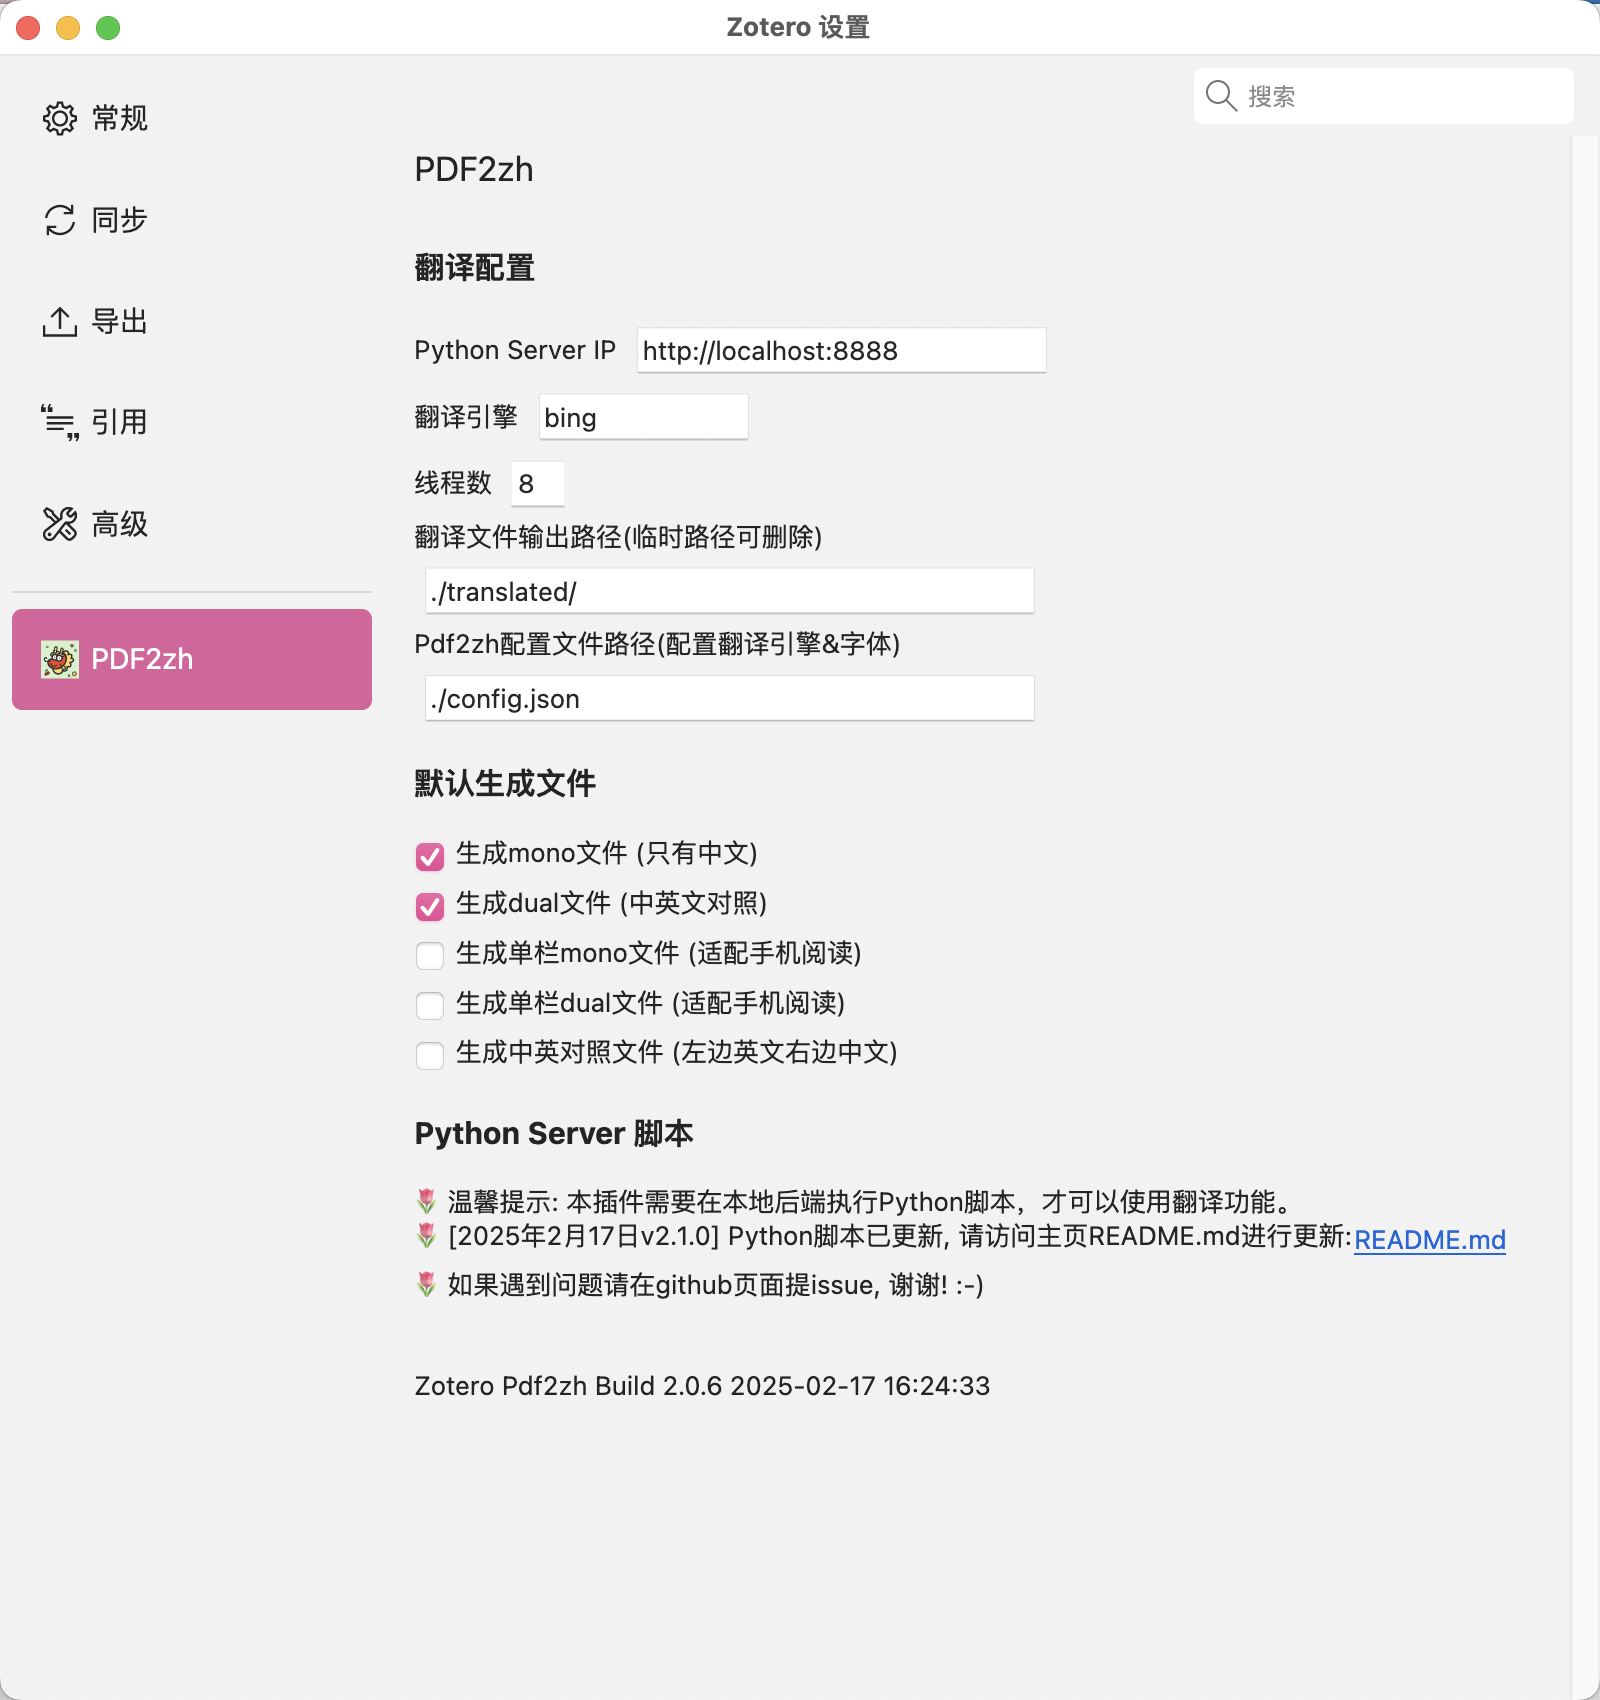
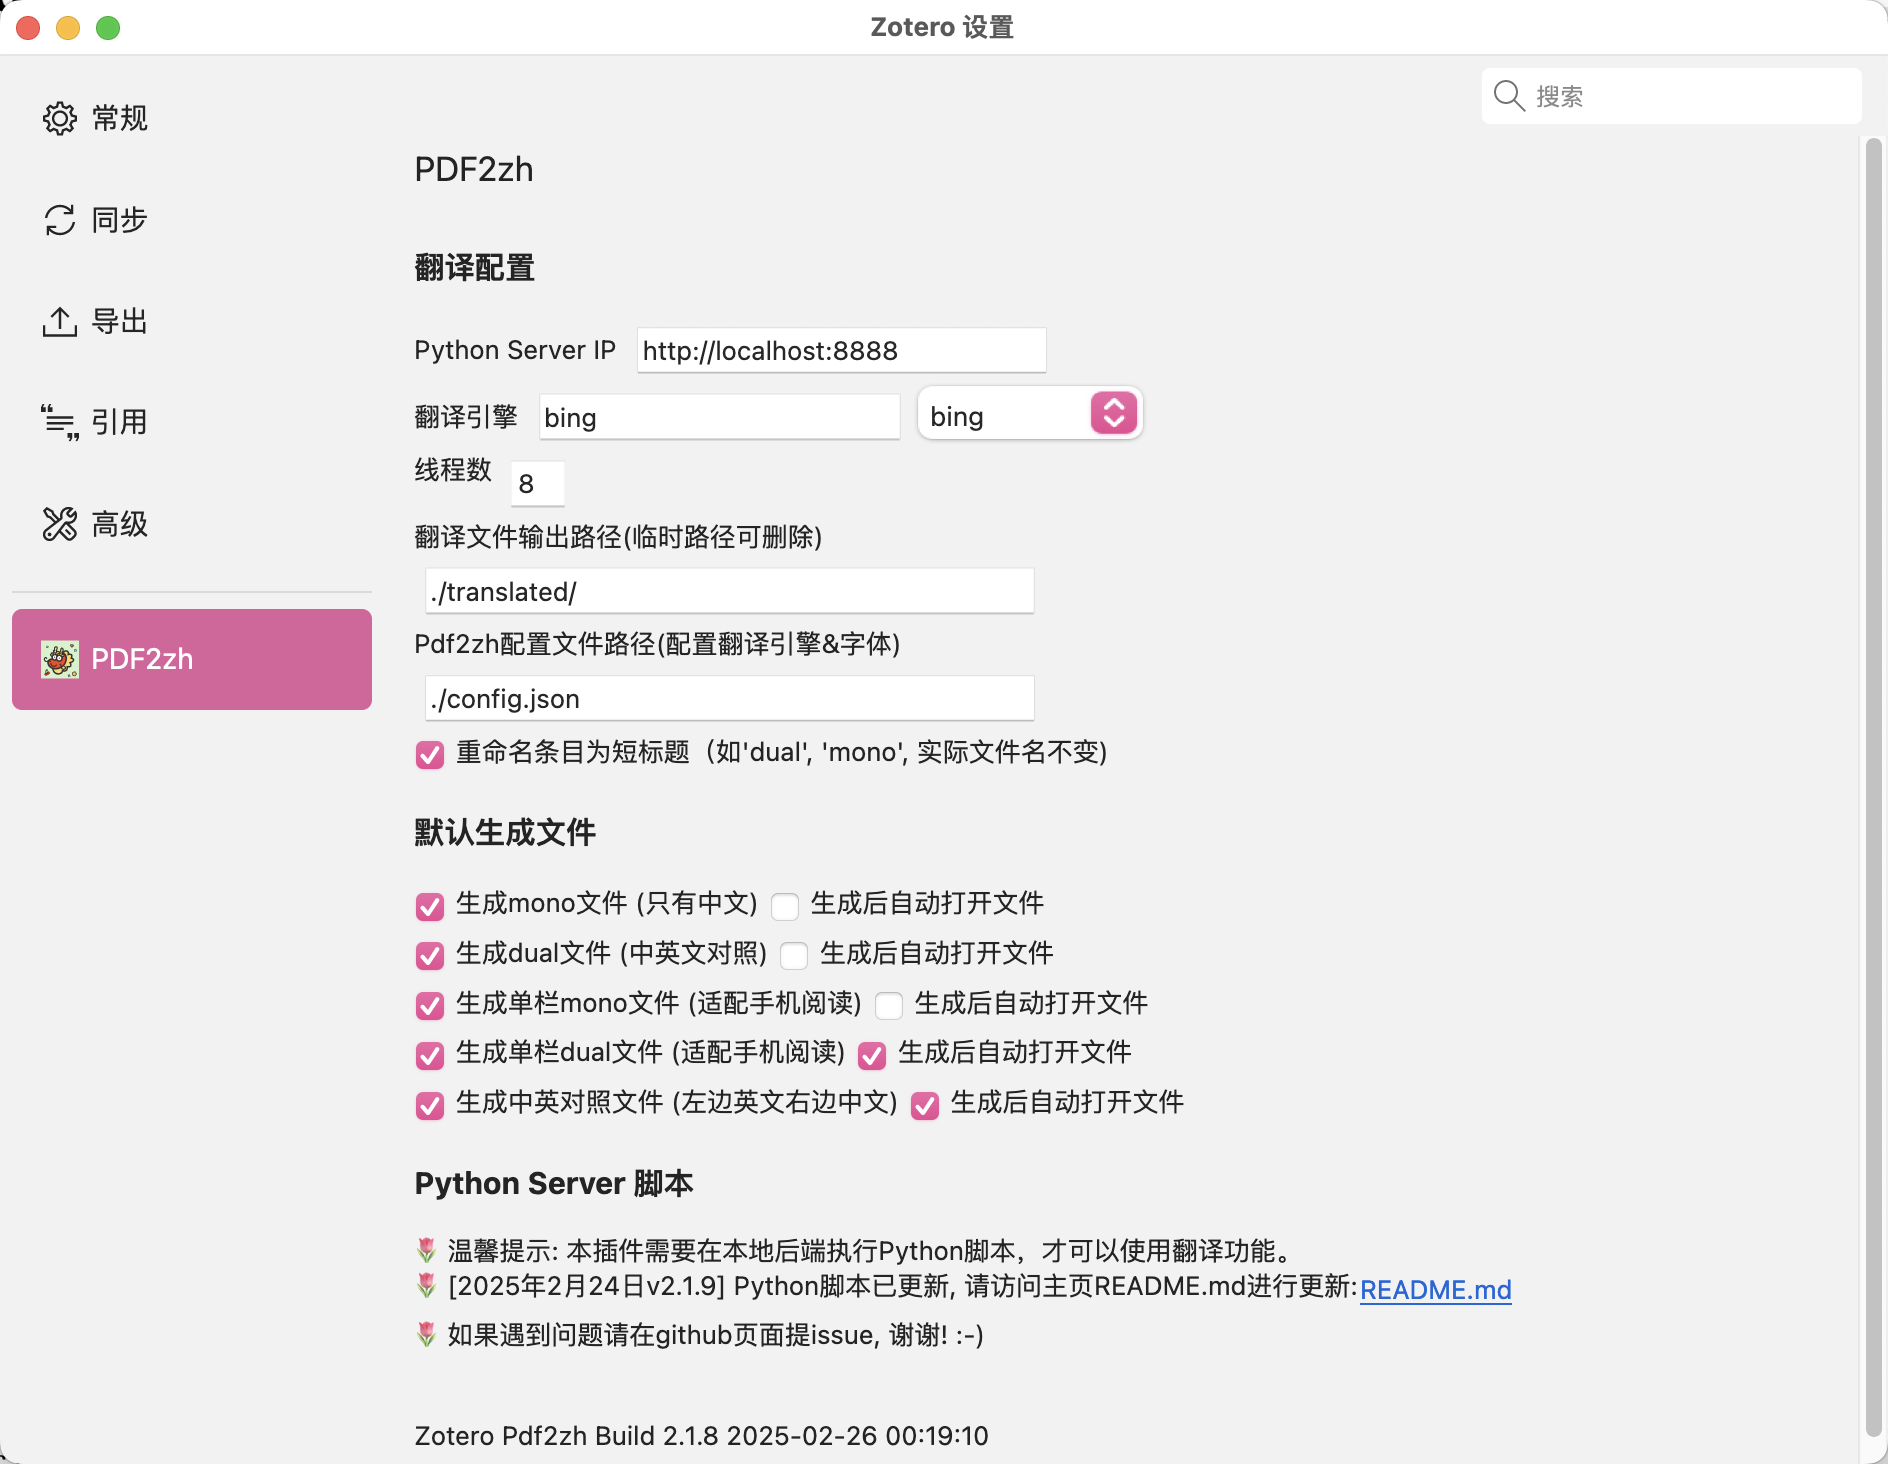
update

diff --git a/src/modules/examples.ts b/src/modules/examples.ts
@@ -141,6 +141,9 @@ export class HelperExampleFactory {
         fileName: string,
         serverUrl: string,
         item: Zotero.Item,
+        title: string = "",
+        rename: string = "false",
+        open: string = "false",
     ) {
         const response = await axios.get(
             serverUrl + "/translatedFile/" + fileName,
@@ -151,7 +154,13 @@ export class HelperExampleFactory {
         const uint8Array = new Uint8Array(response.data);
         const tempDir = PathUtils.join(PathUtils.tempDir, fileName);
         IOUtils.write(tempDir, uint8Array);
-        await HelperExampleFactory.addAttachmentToItem(item, tempDir);
+        await HelperExampleFactory.addAttachmentToItem(
+            item,
+            tempDir,
+            title,
+            rename,
+            open,
+        );
         IOUtils.remove(tempDir);
     }
 
@@ -184,6 +193,13 @@ export class HelperExampleFactory {
         const mono_cut = getPref("mono-cut")?.toString();
         const dual_cut = getPref("dual-cut")?.toString();
         const compare = getPref("compare")?.toString();
+        const rename = getPref("rename")?.toString();
+        const mono_open = getPref("mono-open")?.toString();
+        const dual_open = getPref("dual-open")?.toString();
+        const mono_cut_open = getPref("mono-cut-open")?.toString();
+        const dual_cut_open = getPref("dual-cut-open")?.toString();
+        const compare_open = getPref("compare-open")?.toString();
+
         let outputPath = getPref("outputPath")?.toString();
         if (!outputPath) {
             outputPath = "";
@@ -263,6 +279,9 @@ export class HelperExampleFactory {
                                 fileName1,
                                 serverUrl,
                                 item,
+                                "mono",
+                                rename,
+                                mono_open,
                             );
                         }
                         if (dual === "true") {
@@ -270,6 +289,9 @@ export class HelperExampleFactory {
                                 fileName2,
                                 serverUrl,
                                 item,
+                                "dual",
+                                rename,
+                                dual_open,
                             );
                         }
                         if (mono_cut === "true") {
@@ -277,6 +299,9 @@ export class HelperExampleFactory {
                                 fileName3,
                                 serverUrl,
                                 item,
+                                "mono-cut",
+                                rename,
+                                mono_cut_open,
                             );
                         }
                         if (dual_cut === "true") {
@@ -284,6 +309,9 @@ export class HelperExampleFactory {
                                 fileName4,
                                 serverUrl,
                                 item,
+                                "dual-cut",
+                                rename,
+                                dual_cut_open,
                             );
                         }
                         if (compare === "true") {
@@ -291,6 +319,9 @@ export class HelperExampleFactory {
                                 fileName5,
                                 serverUrl,
                                 item,
+                                "dual-compare",
+                                rename,
+                                compare_open,
                             );
                         }
                     }
@@ -335,6 +366,12 @@ export class HelperExampleFactory {
         if (!configPath) {
             configPath = "";
         }
+        const rename = getPref("rename")?.toString();
+        const mono_open = getPref("mono-open")?.toString();
+        const dual_open = getPref("dual-open")?.toString();
+        const mono_cut_open = getPref("mono-cut-open")?.toString();
+        const dual_cut_open = getPref("dual-cut-open")?.toString();
+        const compare_open = getPref("compare-open")?.toString();
         try {
             const pane = ztoolkit.getGlobal("ZoteroPane");
             const selectedItems = pane.getSelectedItems();
@@ -388,12 +425,29 @@ export class HelperExampleFactory {
                     const result: TranslationResponse = JSON.parse(jsonString);
                     const fileName = PathUtils.filename(filepath);
                     const fileName_cut = fileName.replace(".pdf", "-cut.pdf");
+                    let title = "";
+                    let open = "";
+                    if (fileName_cut.indexOf("-mono") != -1) {
+                        title = "mono-cut";
+                        if (mono_cut_open == "true") {
+                            open = "true";
+                        }
+                    }
+                    if (fileName_cut.indexOf("-dual") != -1) {
+                        title = "dual-cut";
+                        if (dual_cut_open == "true") {
+                            open = "true";
+                        }
+                    }
                     if (result.status === "success") {
                         await Promise.all([
                             HelperExampleFactory.fetchPDF(
                                 fileName_cut,
                                 serverUrl,
                                 item,
+                                title,
+                                rename,
+                                open,
                             ),
                         ]);
                     }
@@ -437,6 +491,12 @@ export class HelperExampleFactory {
         if (!configPath) {
             configPath = "";
         }
+        const rename = getPref("rename")?.toString();
+        const mono_open = getPref("mono-open")?.toString();
+        const dual_open = getPref("dual-open")?.toString();
+        const mono_cut_open = getPref("mono-cut-open")?.toString();
+        const dual_cut_open = getPref("dual-cut-open")?.toString();
+        const compare_open = getPref("compare-open")?.toString();
         try {
             const pane = ztoolkit.getGlobal("ZoteroPane");
             const selectedItems = pane.getSelectedItems();
@@ -493,12 +553,19 @@ export class HelperExampleFactory {
                         ".pdf",
                         "-compare.pdf",
                     );
+                    let open = "";
+                    if (compare_open == "true") {
+                        open = "true";
+                    }
                     if (result.status === "success") {
                         await Promise.all([
                             HelperExampleFactory.fetchPDF(
                                 fileName_cut,
                                 serverUrl,
                                 item,
+                                "dual-compare",
+                                rename,
+                                open,
                             ),
                         ]);
                     }
@@ -514,14 +581,18 @@ export class HelperExampleFactory {
     static async addAttachmentToItem(
         item: Zotero.Item,
         translatedPath: string,
+        title: string = "",
+        rename: string = "",
+        open: string = "",
     ): Promise<void> {
+        ztoolkit.log("rename:", rename);
+        ztoolkit.log("title:", title);
         const itemID = item.id;
         const libraryID = item.libraryID;
         const collectionID = item.getCollections()[0];
-
         if (item.isAttachment()) {
             const parentItemID = item.parentItemID;
-            await Promise.all([
+            const newItem = await Promise.all([
                 Zotero.Attachments.importFromFile({
                     file: translatedPath,
                     parentItemID:
@@ -534,17 +605,34 @@ export class HelperExampleFactory {
                         collectionID != null
                             ? [collectionID]
                             : undefined,
+                    title:
+                        title != "" &&
+                        parentItemID != null &&
+                        parentItemID != false &&
+                        rename == "true"
+                            ? title
+                            : PathUtils.filename(translatedPath),
                 }),
             ]);
             ztoolkit.log(`已将翻译后的 PDF 附件添加到库 ${libraryID} 中。`);
+            if (open == "true" && newItem.length > 0 && newItem[0].id) {
+                Zotero.Reader.open(newItem[0].id);
+            }
         } else {
-            await Promise.all([
+            const newItem = await Promise.all([
                 Zotero.Attachments.importFromFile({
                     file: translatedPath,
                     parentItemID: itemID,
+                    title:
+                        title != "" && itemID != null
+                            ? title
+                            : PathUtils.filename(translatedPath),
                 }),
             ]);
             ztoolkit.log(`已将翻译后的 PDF 附件添加到项目 ${itemID} 中。`);
+            if (open == "true" && newItem.length > 0 && newItem[0].id) {
+                Zotero.Reader.open(newItem[0].id);
+            }
         }
     }
 }

diff --git a/src/modules/preferenceScript.ts b/src/modules/preferenceScript.ts
@@ -1,6 +1,6 @@
 import { config } from "../../package.json";
 import { getString } from "../utils/locale";
-import { setPref } from "../utils/prefs";
+import { setPref, getPref } from "../utils/prefs";
 
 export async function registerPrefsScripts(_window: Window) {
     // This function is called when the prefs window is opened
@@ -144,6 +144,50 @@ function bindPrefEvents() {
             setPref("compare", (e.target as XUL.Checkbox).checked);
         });
 
+    addon.data
+        .prefs!.window.document.querySelector(
+            `#zotero-prefpane-${config.addonRef}-rename`,
+        )
+        ?.addEventListener("command", (e) => {
+            setPref("rename", (e.target as XUL.Checkbox).checked);
+        });
+
+    // ###### open #####
+    addon.data
+        .prefs!.window.document.querySelector(
+            `#zotero-prefpane-${config.addonRef}-mono-open`,
+        )
+        ?.addEventListener("command", (e) => {
+            setPref("mono-open", (e.target as XUL.Checkbox).checked);
+        });
+    addon.data
+        .prefs!.window.document.querySelector(
+            `#zotero-prefpane-${config.addonRef}-dual-open`,
+        )
+        ?.addEventListener("command", (e) => {
+            setPref("dual-open", (e.target as XUL.Checkbox).checked);
+        });
+    addon.data
+        .prefs!.window.document.querySelector(
+            `#zotero-prefpane-${config.addonRef}-mono-cut-open`,
+        )
+        ?.addEventListener("command", (e) => {
+            setPref("mono-cut-open", (e.target as XUL.Checkbox).checked);
+        });
+    addon.data
+        .prefs!.window.document.querySelector(
+            `#zotero-prefpane-${config.addonRef}-dual-cut-open`,
+        )
+        ?.addEventListener("command", (e) => {
+            setPref("dual-cut-open", (e.target as XUL.Checkbox).checked);
+        });
+    addon.data
+        .prefs!.window.document.querySelector(
+            `#zotero-prefpane-${config.addonRef}-compare-open`,
+        )
+        ?.addEventListener("command", (e) => {
+            setPref("compare-open", (e.target as XUL.Checkbox).checked);
+        });
     // ########################################################
     addon.data
         .prefs!.window.document.querySelector(
@@ -183,5 +227,19 @@ function bindPrefEvents() {
         )
         ?.addEventListener("change", (e) => {
             setPref("configPath", (e.target as HTMLInputElement).value);
+        });
+
+    // engine
+    addon.data.prefs?.window.document
+        .querySelector(`#zotero-prefpane-${config.addonRef}-preset`)
+        ?.addEventListener("change", (e) => {
+            setPref("preset", (e.target as HTMLSelectElement).value);
+            setPref("engine", (e.target as HTMLSelectElement).value);
+        });
+
+    addon.data.prefs?.window.document
+        .querySelector(`#zotero-prefpane-${config.addonRef}-engine`)
+        ?.addEventListener("change", (e) => {
+            setPref("engine", (e.target as HTMLInputElement).value);
         });
 }

diff --git a/addon/prefs.js b/addon/prefs.js
@@ -2,7 +2,10 @@
 pref("__prefsPrefix__.enable", true);
 pref("__prefsPrefix__.input", "This is input");
 pref("__prefsPrefix__.serverip", "http://localhost:8888");
+
 pref("__prefsPrefix__.engine", "bing");
+pref("__prefsPrefix__.preset", "bing");
+
 pref("__prefsPrefix__.mono", true);
 pref("__prefsPrefix__.dual", true);
 pref("__prefsPrefix__.mono-cut", false);
@@ -11,3 +14,6 @@ pref("__prefsPrefix__.compare", false);
 pref("__prefsPrefix__.threadNum", 4);
 pref("__prefsPrefix__.outputPath", "");
 pref("__prefsPrefix__.configPath", "");
+
+pref("__prefsPrefix__.open", true);
+pref("__prefsPrefix__.rename", false);

diff --git a/README.md b/README.md
@@ -33,10 +33,11 @@ pip install --upgrade pdf2zh # 之前已经安装, 更新
 ### Step 1.1 设置翻译参数
 
 - Python Server IP 默认为`http://localhost:8888`, 其中8888为翻译端口号，可以自行修改；
-- 翻译引擎：默认为bing；
+- 翻译引擎：默认为bing；(可以从下拉菜单选择，也可以自行输入)
 - 线程数：PDF2zh在翻译时的执行线程数，默认为4；
 - 翻译文件输出路径：用于临时存储翻译得到的PDF文件，默认为空；
 - Pdf2zh配置文件路径：用于配置翻译引擎和字体，默认为空。
+- 重命名为短标题：将新增文件的条目标题命名为短标题，包括：`mono`，`dual`，`dual-cut`，`mono-cut`，`compare`，但是不会改变原文件的命名。
 
 以上路径建议设置为绝对路径。
 
@@ -49,6 +50,8 @@ pip install --upgrade pdf2zh # 之前已经安装, 更新
 默认生成mono和dual文件。
 
 通过勾选默认生成的文件来控制添加到Zotero中的文件。
+
+同时可以进一步勾选是否在生成该文件后自动打开。
 
 （请注意，此时临时翻译文件路径里依然存在mono和dual两种文件，因为这是pdf2zh默认生成的）
 
